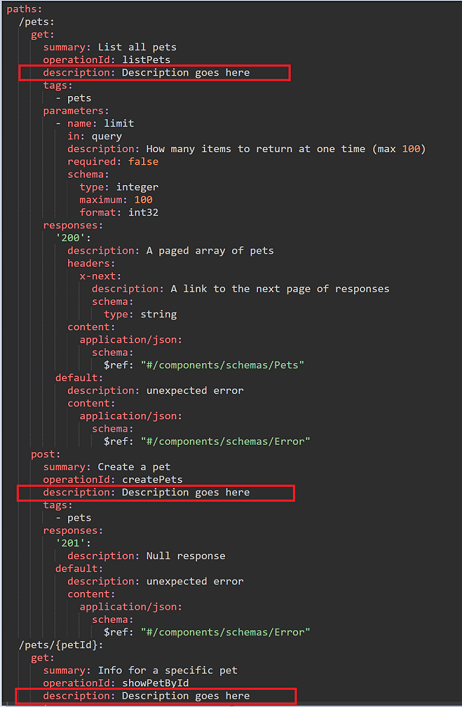
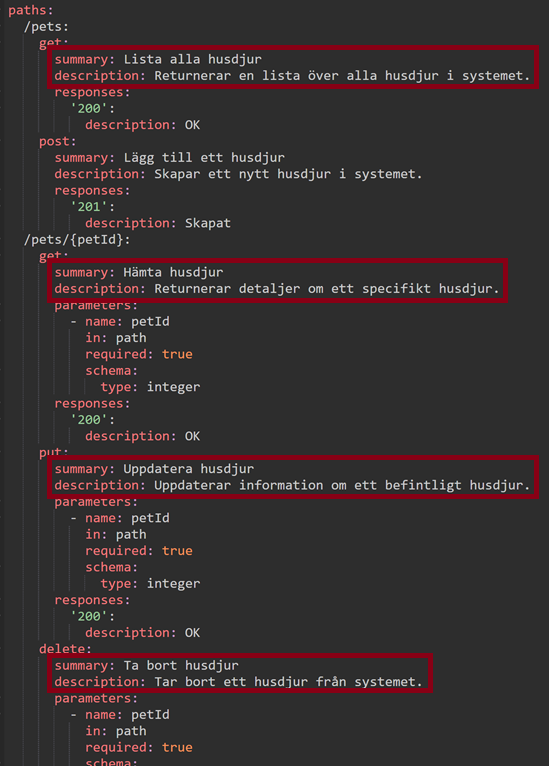
feat: extend rule dok.19 to also check summary in path operations

Changed region(s): [[0.0, 0.0, 1.0, 1.0], [0.8182, 0.1867, 0.9091, 0.2178]]

diff --git a/tests/unit/dok.test.ts b/tests/unit/dok.test.ts
@@ -455,6 +455,7 @@ testRule('Dok17', [
     ],
   },
 ]);
+
 testRule('Dok19', [
   {
     name: 'giltigt testfall',
@@ -466,6 +467,7 @@ testRule('Dok19', [
         '/thiscase': {
           operation: {
             description: 'description field test',
+            summary: 'summary field test',
             responses: {
               '200': {
                 description: 'test',
@@ -487,7 +489,7 @@ testRule('Dok19', [
         '/thiscase': {
           operation: {
             //description: "dfadfa",
-            //summery: "",
+            //summary: "",
             responses: {
               '200': {
                 description: '',

diff --git a/src/rulesets/DokRules.ts b/src/rulesets/DokRules.ts
@@ -398,7 +398,11 @@ export class Dok19 extends BaseRuleset {
   message =
     'Ett API:s resurser och de möjliga operationer som kan utföras på resursen SKALL beskrivas så utförligt och tydligt som möjligt';
   then = [
-    {
+      {
+      field: 'summary',
+      function: truthy,
+    },
+     {
       field: 'description',
       function: truthy,
     },
@@ -422,6 +426,7 @@ export class Dok19 extends BaseRuleset {
   }
   severity = DiagnosticSeverity.Error;
 }
+
 export class Dok01 extends BaseRuleset {
   static customProperties: CustomProperties = {
     område: 'Dokumentation',

diff --git a/GUIDELINES.md b/GUIDELINES.md
@@ -105,7 +105,15 @@ Detta dokument specificerar reglerna som verktyget tillämpar.
 
 ```
 $
-```
+```> npx jest tests/dok.test.ts
+No tests found, exiting with code 1
+Run with `--passWithNoTests` to exit with code 0
+In /home/mirellefalstad/workspaces/rap-lp/rest-api-profil-lint-processor
+  112 files checked.
+  testMatch: **/tests/unit/**/*.test.ts - 13 matches
+  testPathIgnorePatterns: /node_modules/ - 112 matches
+  testRegex:  - 0 matches
+Pattern: tests/dok.test.ts - 0 matches
 
 **Förklaring:**
 
@@ -371,13 +379,13 @@ $.paths[*][*]
 ```
 
 **Förklaring:**
-Regeln förutsätter att det finns en förekomst av objektet `Paths`. Regeln undersöker vidare om det finns förekomster av fältet `description` oavsett om det är en GET, POST, PUT, PATCH eller en DELETE operation.
+Regeln förutsätter att objektet `paths` förekommer. Den kontrollerar att fälten `description` och `summary` finns för varje GET-, POST-, PUT-, PATCH- eller DELETE-operation.
 
 **Exempel:**
 
-![alt text](images/dok19.png)
+![Exempel på en OpenAPI-specifikation där varje operation under olika endpoints (GET, POST, PUT, DELETE) har markerats med röd ram kring fälten summary och description. Bilden illustrerar vilka delar av API-specifikationen som regeln DOK.19 validerar.](images/dok19.png)
 
-I exemplet ovan, så exemplifieras regeln med en två get samt en post operation, där regeln undersöker om det finns en förekomst av fältet description.
+_I exemplet ovan illustreras regeln med flera operationer, där DOK.19 kontrollerar att fälten description och summary är ifyllda._
 
 ---
 
